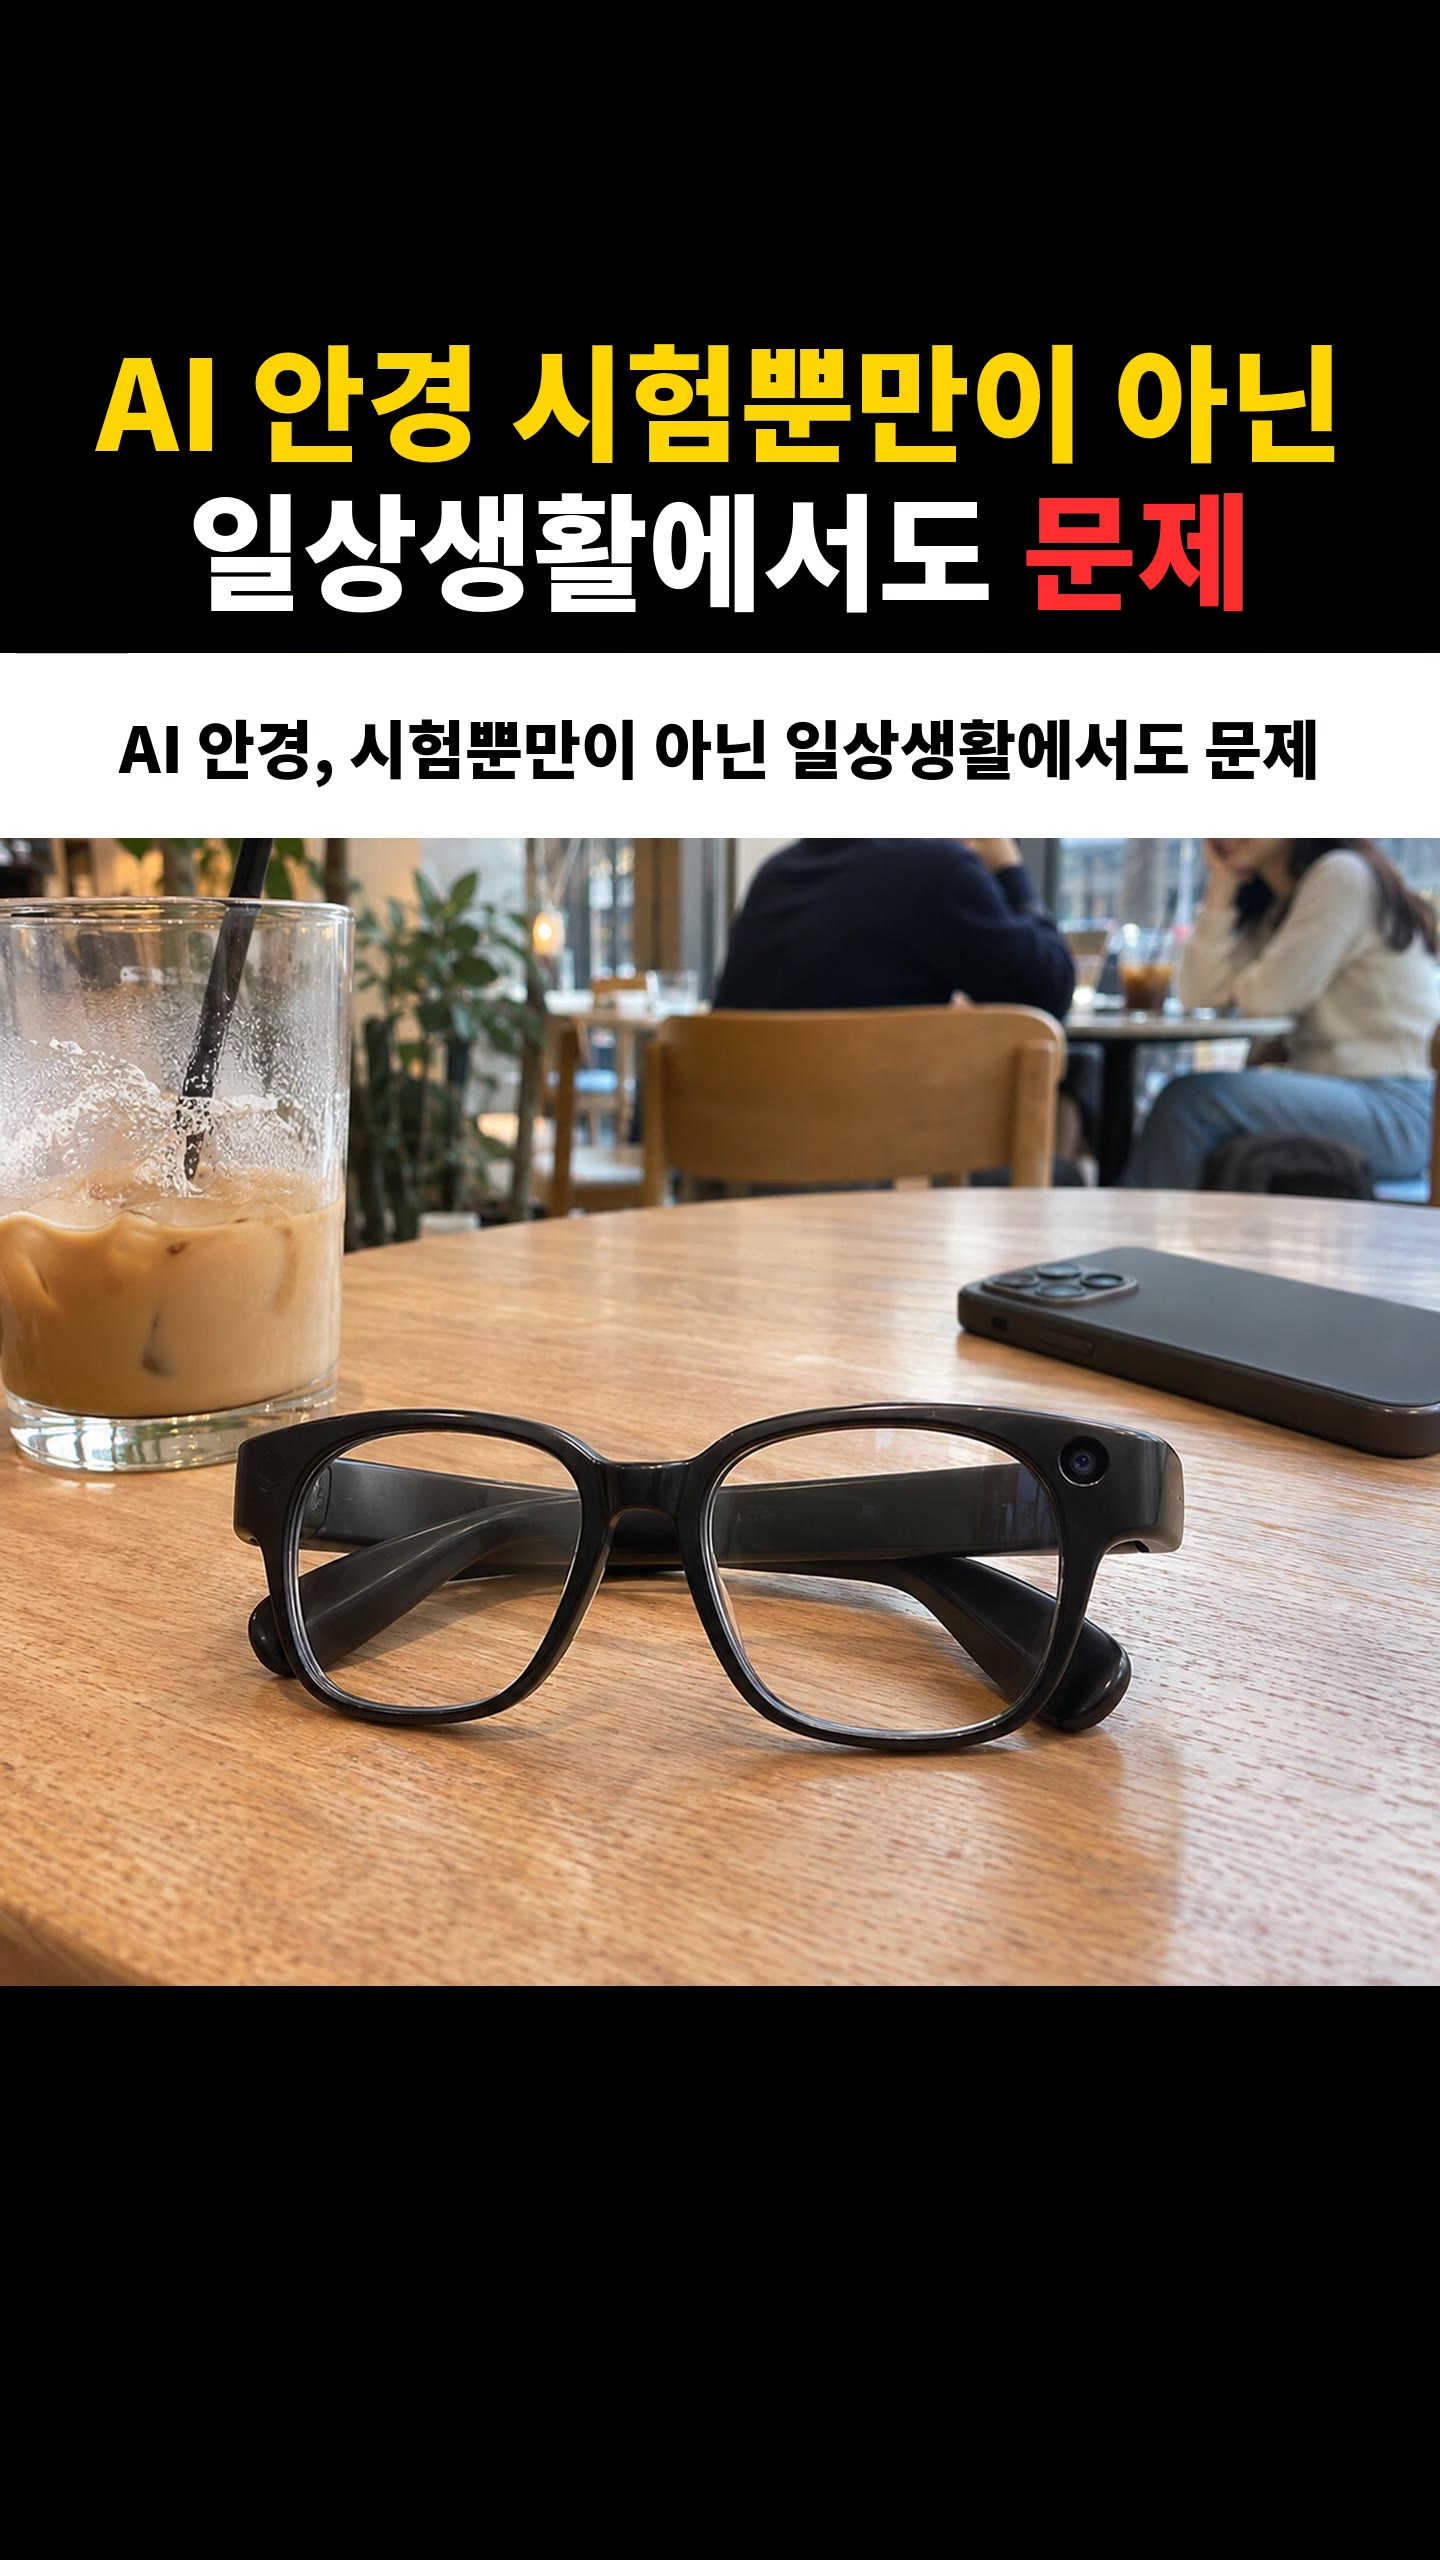
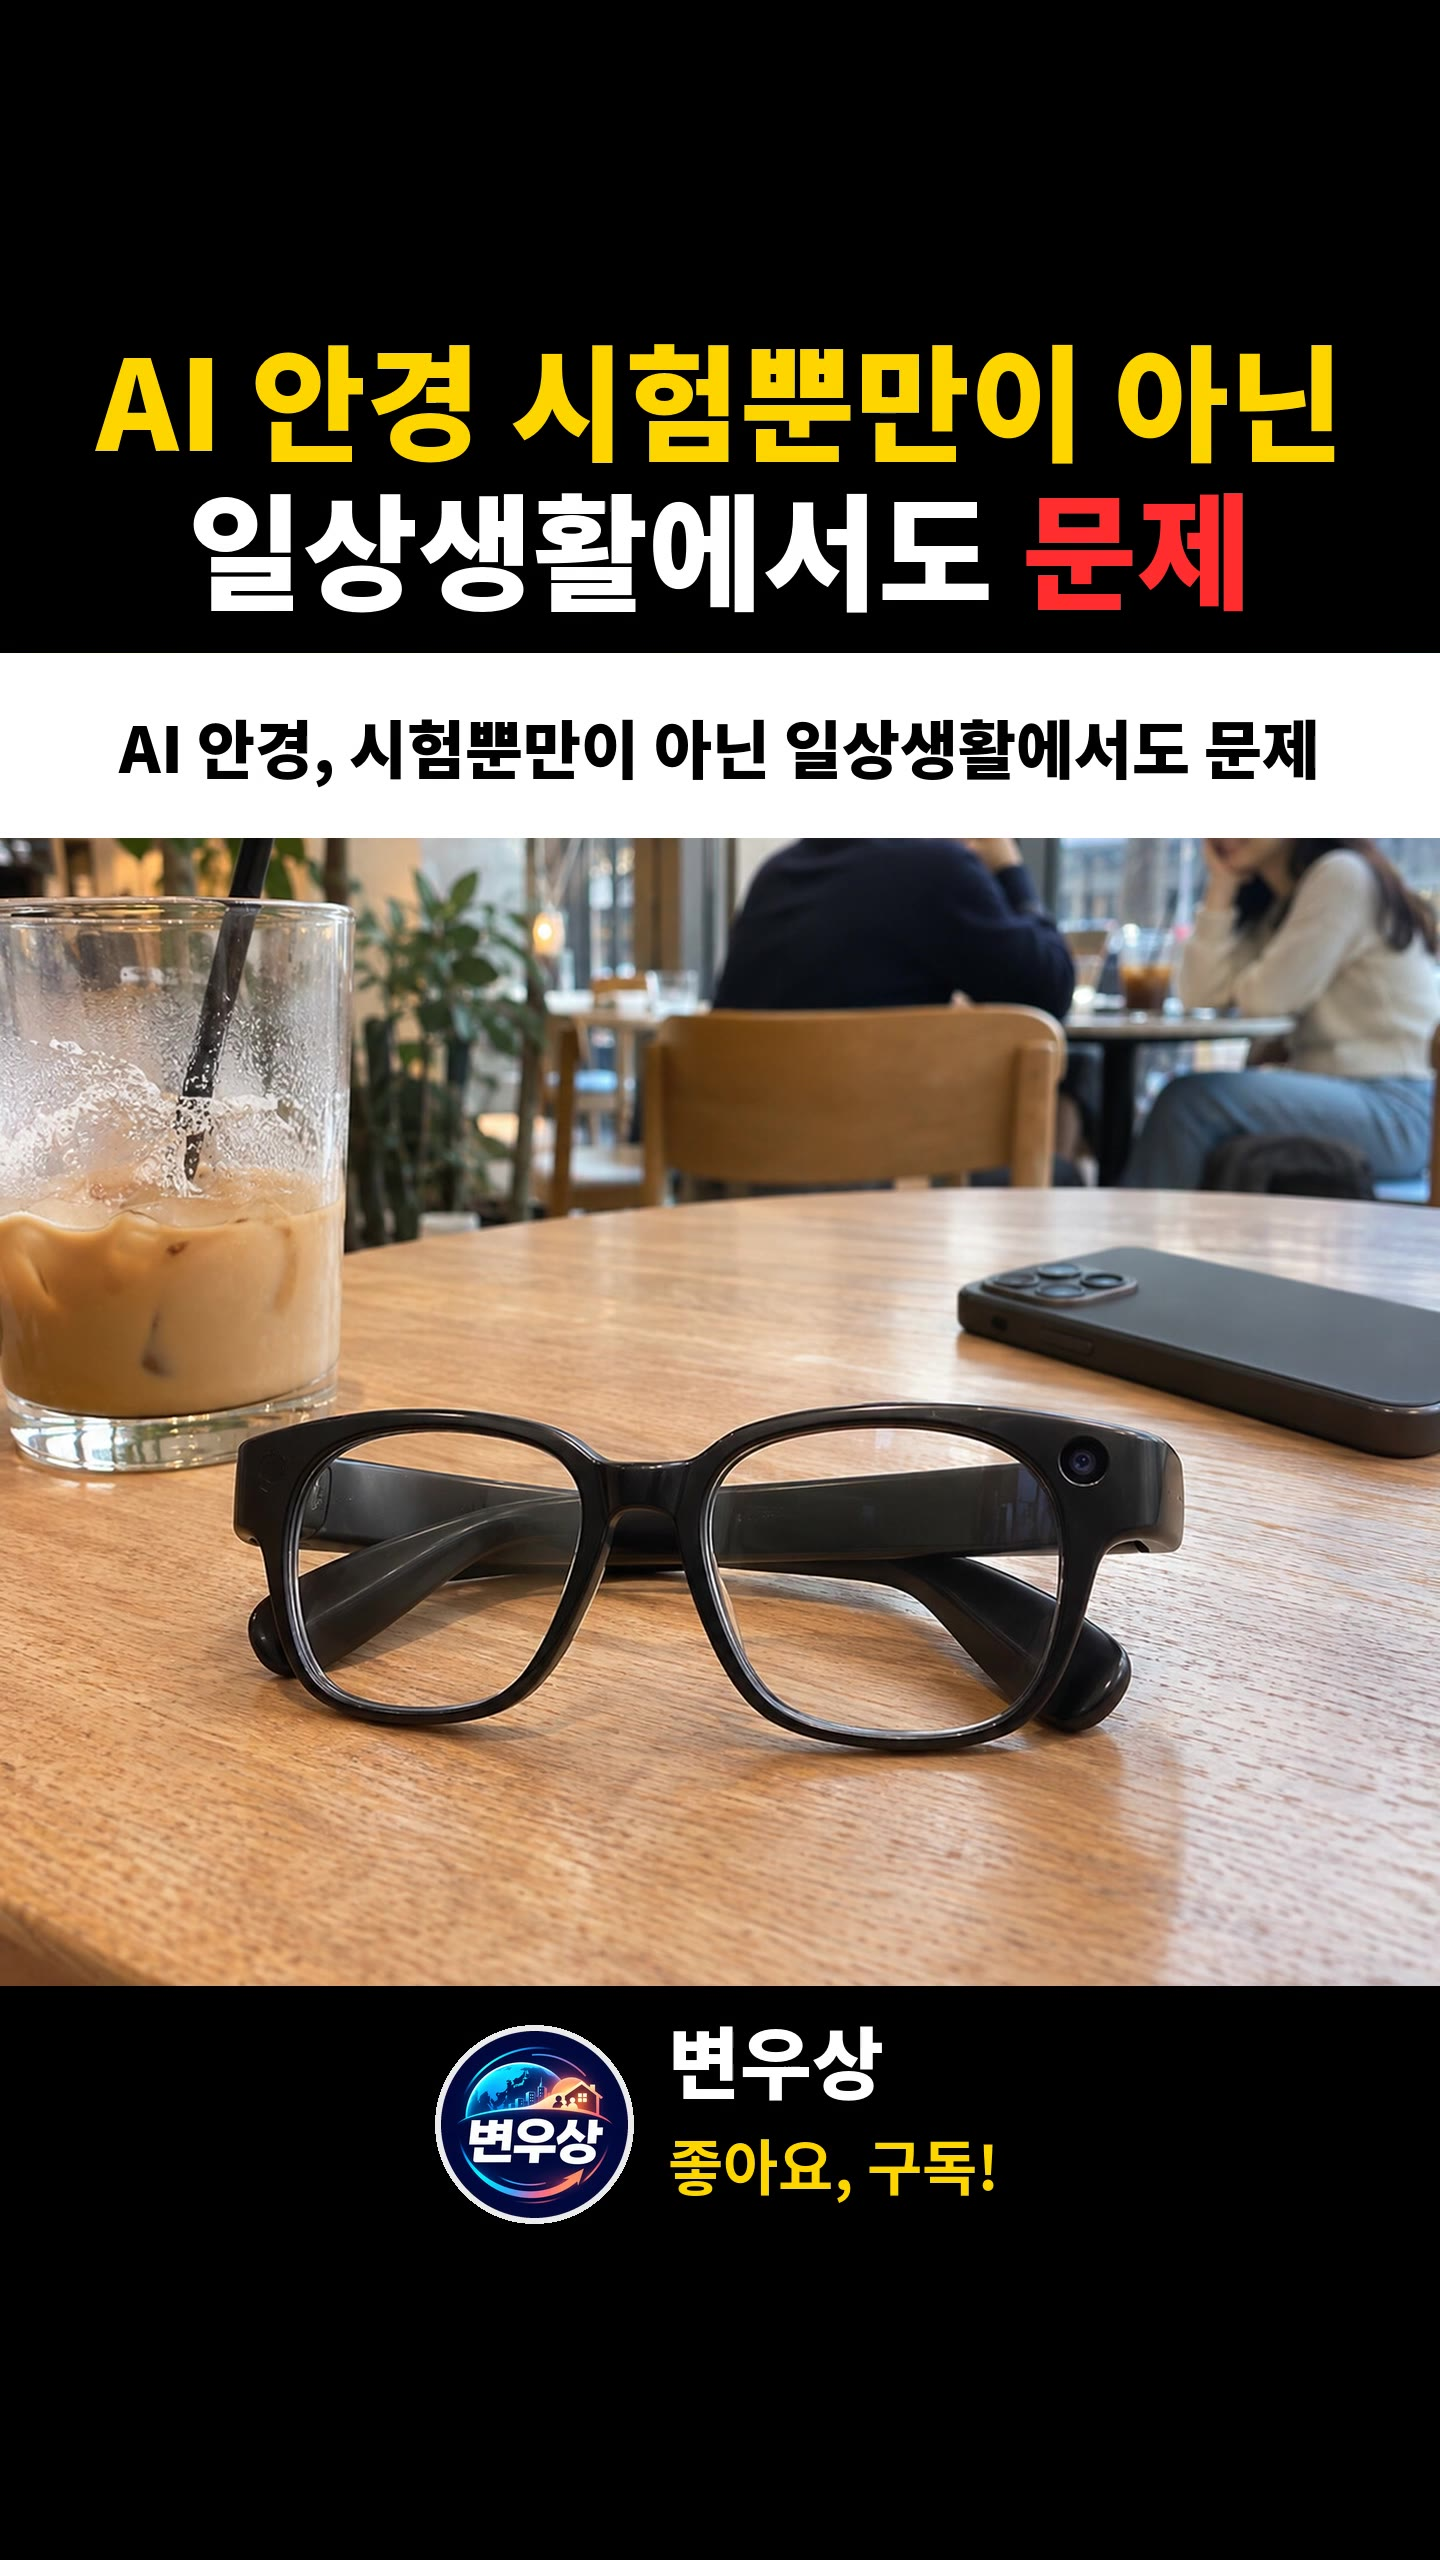
music: 이슈 쇼츠 2편 하단 채널 줄(로고 · 변우상 / 좋아요, 구독!) · 썸네일 다시 · status v4.36
Claude-Session: https://claude.ai/code/session_01PYG2MqY1nsmpahGSFmkrTR

Changed region(s): [[0.4688, 0.7812, 0.6875, 0.875], [0.2812, 0.7812, 0.4375, 0.875]]

diff --git a/guides/status.md b/guides/status.md
@@ -1,6 +1,7 @@
 # 지금 상태·다음 할 일 (인수인계)
 
-버전: v4.35 — 2026-11-22 — **music 이슈 쇼츠 2편 'AI 안경, 일상생활에서도 문제' 영상 완성** (사용자 지시 "만들어봐" + 음성 ___6.mp3): 1440×2560 · 38.9초 · -14.0 LUFS / TP -1.5 · 1편 v5 꼴(위 문구 2줄 · 0~2.96초 흰 띠 + S01 · 흰 자막 13개 · 장면 12개 — ChatGPT 실사 10장 + 1편 복도 + S01 재사용). `music/source/ai-angyeong-ilsang-2026-11/shorts/` 에 SRT(제목 읽기 포함 14개) · thumbnail_1(0.6초 장면). 영상 원본 `music/out/ai-angyeong-ilsang-2026-11-shorts/final_1080p.mp4`(git 밖 · 채팅 작업 공간 `build_ep2.py` v1.0). 다음: 사용자가 원하면 upload.md(제목·설명·태그) → `tools/upload_pack.py check/pack` → PC music 탭.
+버전: v4.36 — 2026-11-22 — **music 이슈 쇼츠 2편 하단 채널 줄** (사용자 지시 "하단에 채널 로고와 변우상 / 좋아요, 구독! 이렇게 두줄로 … Amazing Plan - Silent Film Dark 브금을 작게"): 그림 아래 검은 칸(y 2031~2218)에 둥근 로고 + '변우상'(흰) / '좋아요, 구독!'(노랑) · thumbnail_1 다시 · 채팅 작업 공간 `build_ep2.py` v1.1. 배경음은 아직 없음 — 이 환경에서 incompetech 다운로드가 막혀(프록시 403) 사용자가 mp3 를 주면 소리만 다시(-c:v copy, 목소리보다 17dB 작게) · 설명란에 Kevin MacLeod CC BY 4.0 표기 필수.
+이전 v4.35 — 2026-11-22 — **music 이슈 쇼츠 2편 'AI 안경, 일상생활에서도 문제' 영상 완성** (사용자 지시 "만들어봐" + 음성 ___6.mp3): 1440×2560 · 38.9초 · -14.0 LUFS / TP -1.5 · 1편 v5 꼴(위 문구 2줄 · 0~2.96초 흰 띠 + S01 · 흰 자막 13개 · 장면 12개 — ChatGPT 실사 10장 + 1편 복도 + S01 재사용). `music/source/ai-angyeong-ilsang-2026-11/shorts/` 에 SRT(제목 읽기 포함 14개) · thumbnail_1(0.6초 장면). 영상 원본 `music/out/ai-angyeong-ilsang-2026-11-shorts/final_1080p.mp4`(git 밖 · 채팅 작업 공간 `build_ep2.py` v1.0). 다음: 사용자가 원하면 upload.md(제목·설명·태그) → `tools/upload_pack.py check/pack` → PC music 탭.
 이전 v4.34 — 2026-11-21 — **music 이슈 쇼츠 2편 'AI 안경, 일상생활에서도 문제' 그림 요청** (사용자 지시 "이렇게 대본 썼으니 이미지 생성 지시사항 저장소에 올리고 명령도 알려줘"): `music/source/ai-angyeong-ilsang-2026-11/shorts/` — 대본(사용자 작성, 내레이션만, '교모하게'→'교묘하게'만 고침) · `images_chatgpt.md` v1.0 (실사 정사각 10장 S01~S10 + 1편 복도 그림 재사용) · 1편 기준 그림 `music/source/ai-angyeong-siheom-2026-11/shorts/images/REF-CLASSROOM.jpg`·`S-HALLWAY.jpg`. 다음: ChatGPT 가 그림을 올리고 사용자가 음성 mp3 를 주면 1편 v5 방식(build_v5 기반)으로 영상.
 이전 v4.33 — 2026-11-21 — **music 'AI 안경 시험장' 쇼츠 v5 로 다시 올릴 준비** (사용자 지시 "…맨처음에는 문구를 그대로 읽는 식으로 하고 … 하얀 줄 영역 … 제목은 세무냥이 AI 적발 사태 이후 ~ …" · "맨처음 뚱 하는 효과음만 빼고"): 영상 v5.1 42.2초 (제목 읽기 + 흰 띠 + 복도 탐지기 → v4 대사, '두둥' 뺌) · `upload.md` v1.1 (새 제목 · 설명란·태그 = 관련 영상 19편 낱말 순) · `uploads` 62efbcae · 옛 v4 업로드 기록 → `youtube_old_20261121T062924.json` (89-KwF1C09Q 비공개·11-28 17:00 예약 — **사용자가 스튜디오에서 지워야 함**). 다음: 사용자 PC music 탭 [업로드].
 이전 v4.32 — 2026-11-21 — **music: 'AI 안경 시험장' 쇼츠 업로드 준비 끝** (사용자 지시 "이 영상 일단 유튜브 업로드 프로그램으로 올릴 수 있도록 music 폴더에 올려봐"): `music/source/ai-angyeong-siheom-2026-11/shorts/` (upload.md v1.0 · 대본·SRT · thumbnail_1 · video.json) · `uploads` 브랜치 c0bafdaf (44.2MB 조각 1) · PC 화면이 쇼츠 폴더를 읽게 `upload_web.py` v1.6 · `upload_pack.py` v1.1 · `youtube_upload.py` v1.17 (0초 검정이면 썸네일 그림 그대로) — `upload_guide.md` 13번. 다음: 사용자 PC 업로드 화면 music 탭 (올릴 채널 키 · `music/youtube_channel.json` 없음 → 채널 확인 안 함) [미리보기] → [업로드].
